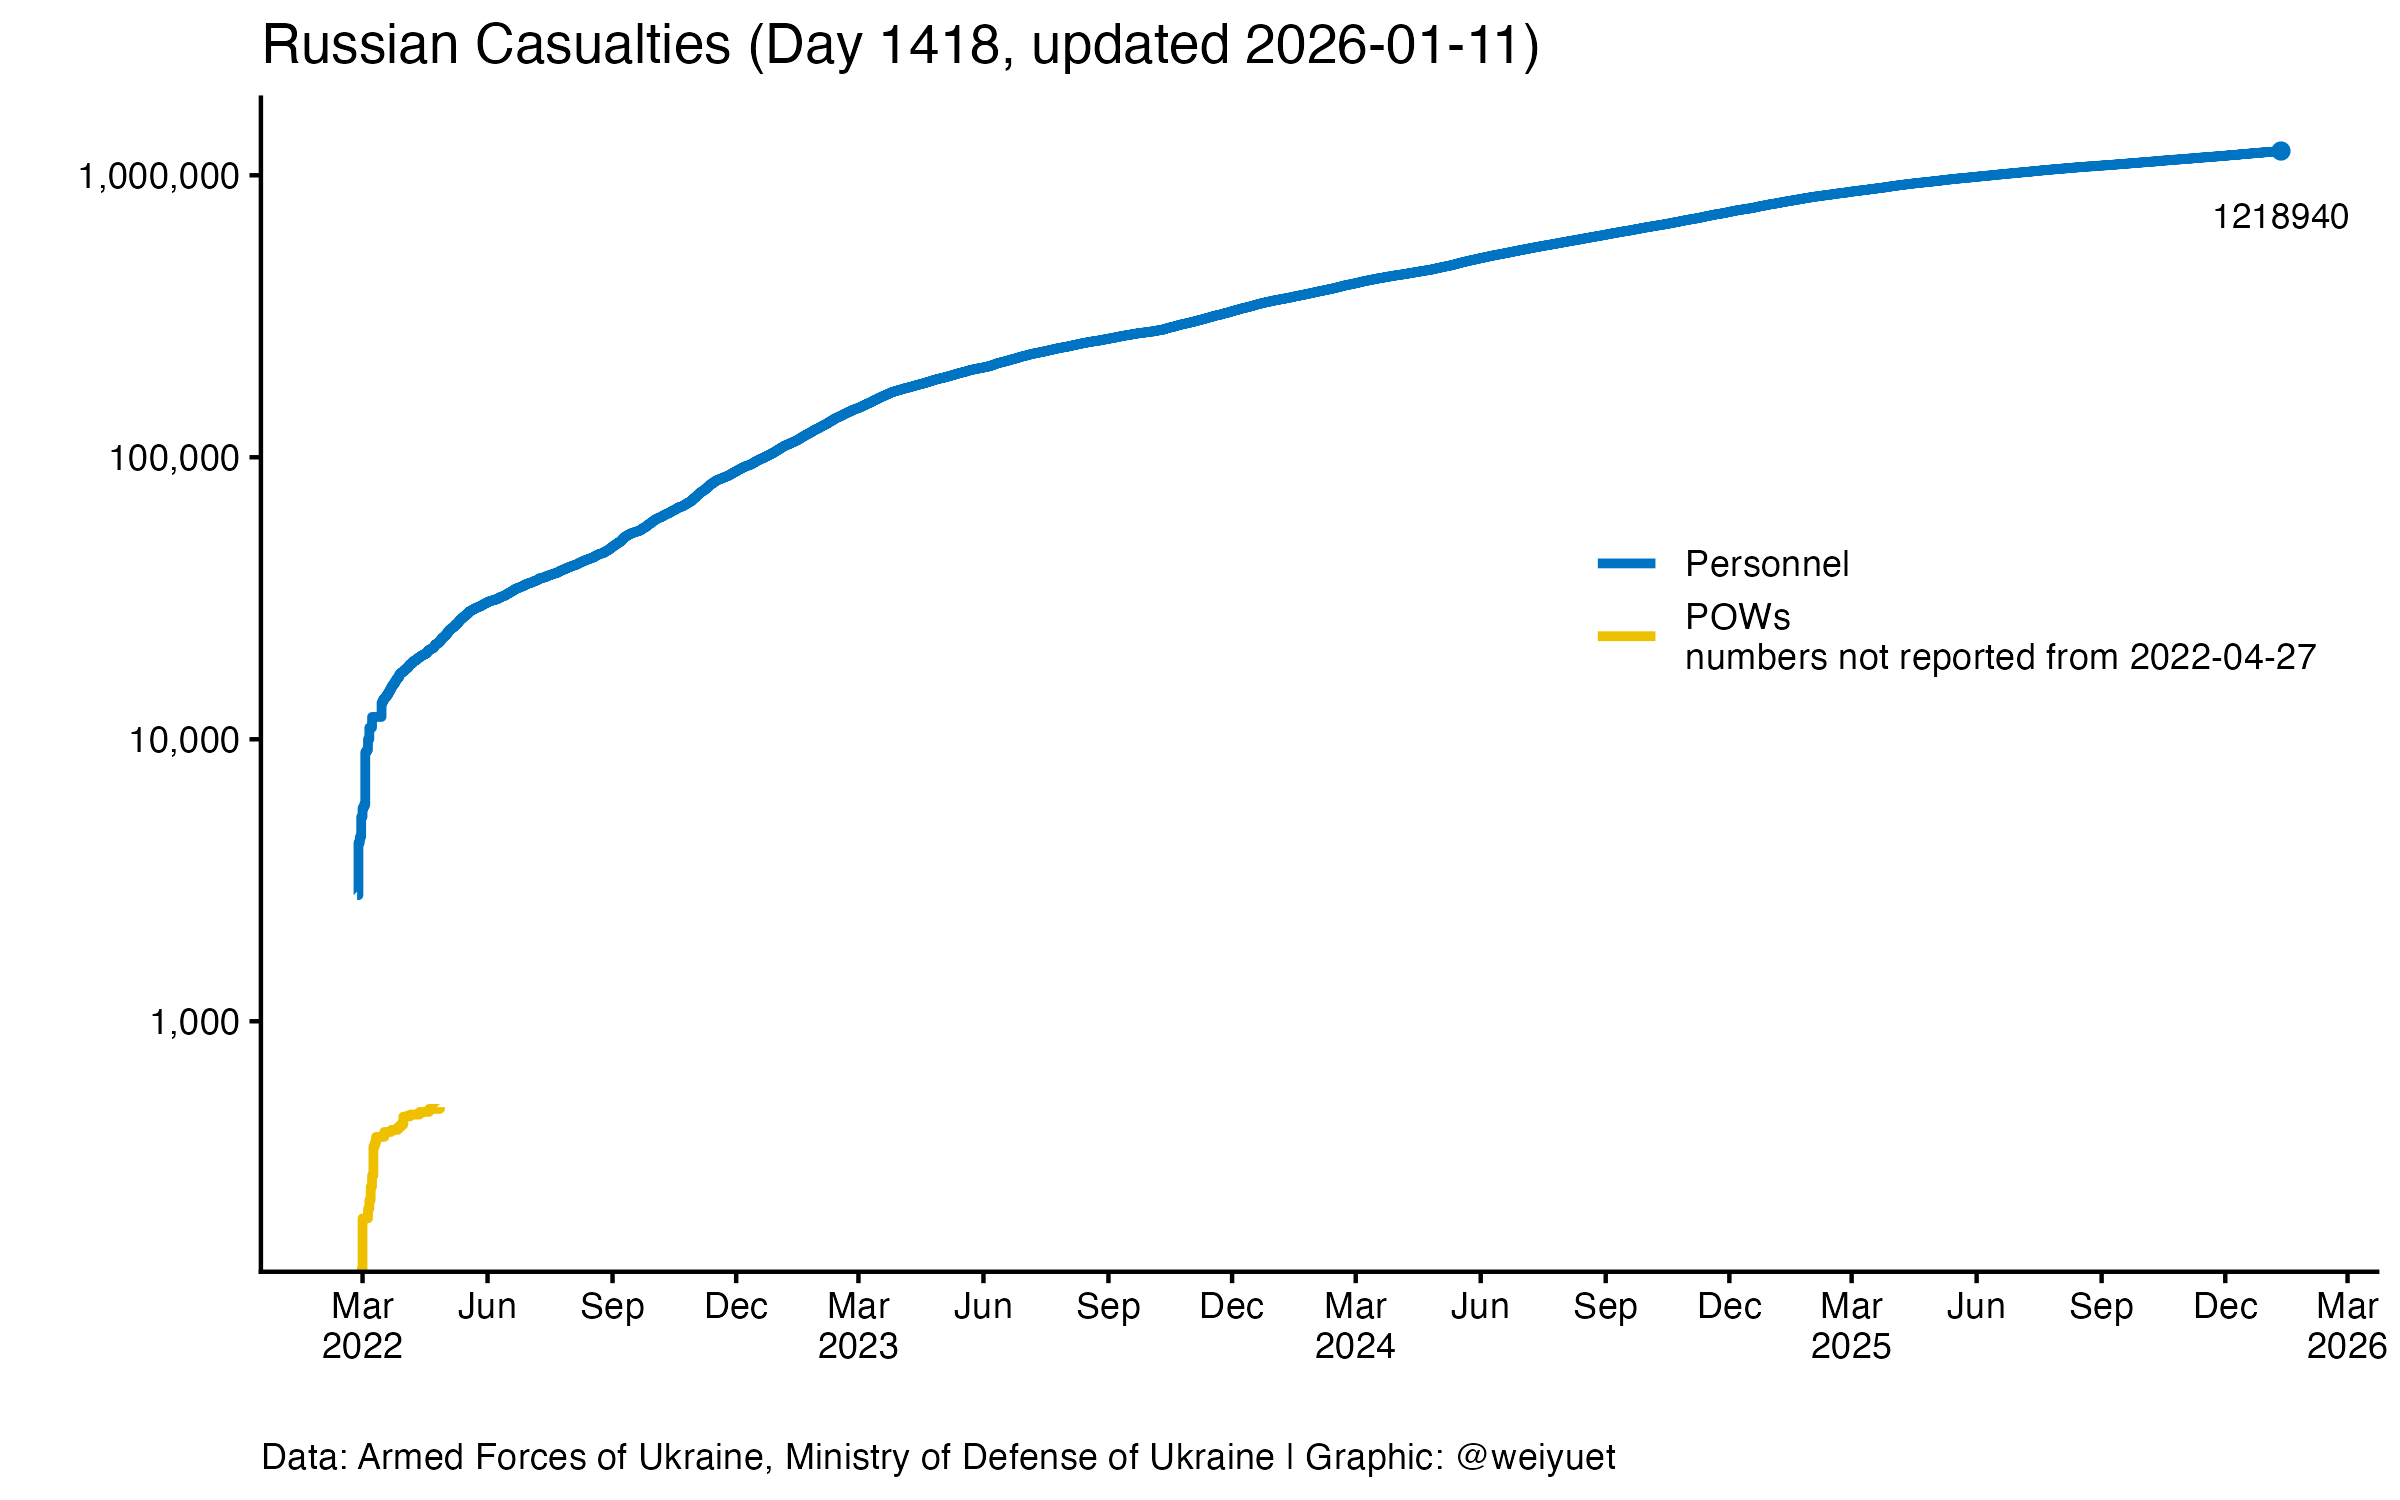
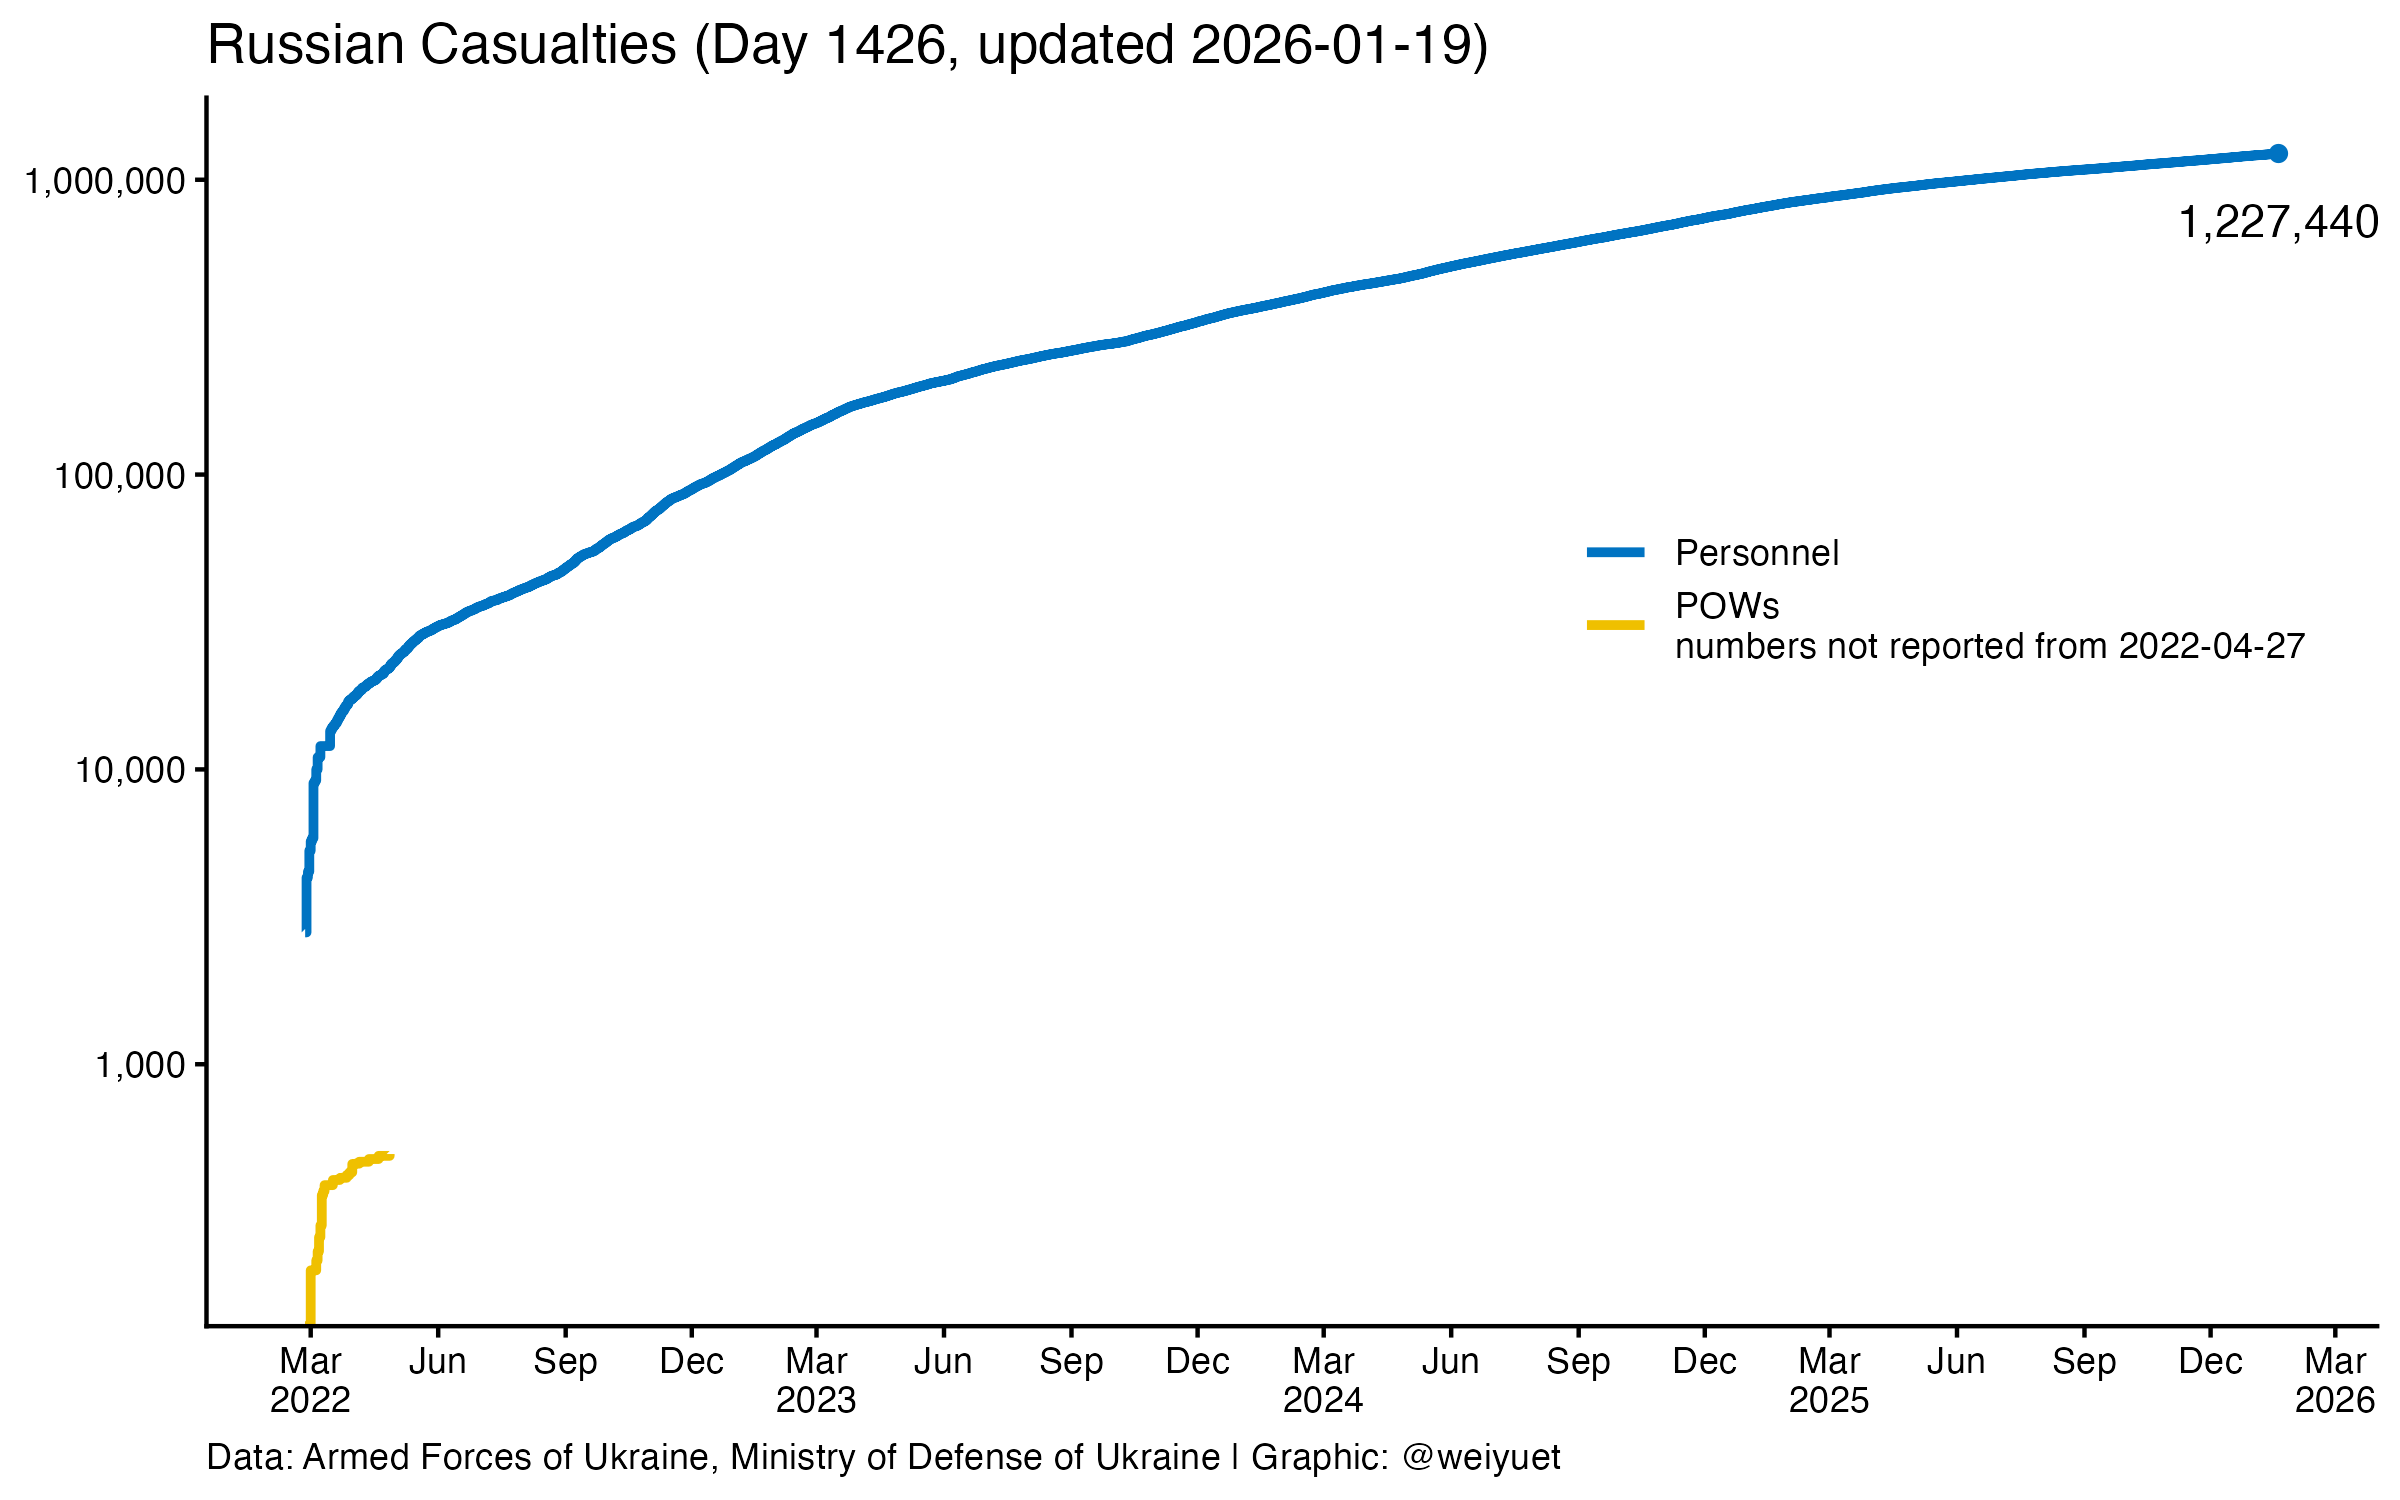
Updated 19 January 2026

diff --git a/README.md b/README.md
@@ -1,12 +1,14 @@
 # Russo-Ukrainian War
 
-  - First Inspired by [`Lena Sokol's Kaggle`](https://www.kaggle.com/code/sokolheavy/2022-ukraine-russia-war-visualization).
-
-  - War casualty data updated weekly from [`Petro Ivanyuk's Kaggle`](https://www.kaggle.com/datasets/piterfm/2022-ukraine-russian-war). All data is official and put together by `Petro`.
-
 Created: 2022-05-26
 
-Updated: 2026-01-12
+Updated: 2026-01-19
+
+  - First Inspired by [`Lena Sokol's Kaggle`](https://www.kaggle.com/code/sokolheavy/2022-ukraine-russia-war-visualization).
+
+  - Data source from [`Petro Ivanyuk's Kaggle`](https://www.kaggle.com/datasets/piterfm/2022-ukraine-russian-war). All data is official and put together by `Petro`.
+
+  - From 2026-01-19, data is read directly from [`Petro Ivanyuk's GitHub`](https://github.com/PetroIvaniuk/2022-Ukraine-Russia-War-Dataset) in JSON format. I will no longer keep a local copy of the CSV data.
 
 ## Summary of Conflict
 
